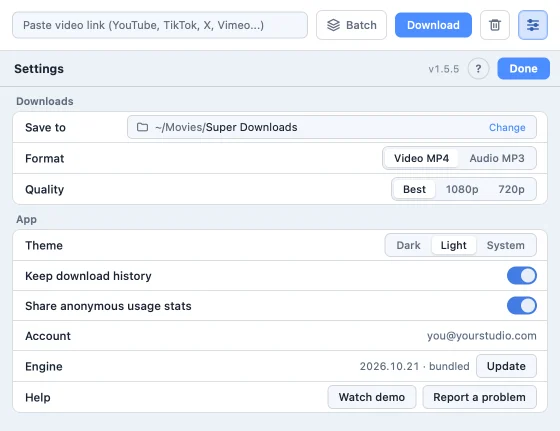
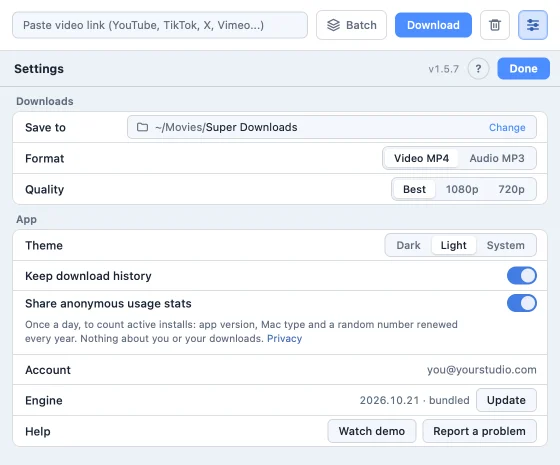
release: v1.5.7
Landing settings/onboarding screenshots regenerated (usage-switch description, «Free»).
Live E2E 10/10 OK.

diff --git a/web/src/data/releases.js b/web/src/data/releases.js
@@ -13,7 +13,7 @@ export const knownIssues = [
 export const releases = [
   {
     version: '1.5.7',
-    date: '2026-10-27',
+    date: '2026-10-26',
     notes: [
       'The app no longer shows a notice about usage stats when it opens. It still counts users anonymously, once a day: app version, Mac type and a random number, nothing about you or your downloads. Settings › Share anonymous usage stats turns it off; details on the Privacy page.',
       'The welcome screen says «Free», with no «limited time».',

diff --git a/CHANGELOG.md b/CHANGELOG.md
@@ -6,7 +6,9 @@ All notable changes to this project will be documented in this file.
 
 ## [Unreleased]
 
-Next app build (1.5.7), on branch `release/v1.5.7`, not published.
+## [1.5.7] — 2026-10-26
+
+No usage notice inside the app (the anonymous count is explained on the website and in Settings), «Free».
 
 - **No usage notice in the app:** the one-time «One anonymous ping a day…» box and the welcome-screen line are gone; nothing about the ping shows when the app opens. The daily anonymous ping stays on by default, now only once past the welcome screen. People are told before they install (a short line by the hero «Download for Mac» button, a line under the download buttons on superdownloads.app, /privacy#usage-stats); Settings › Share anonymous usage stats says what is sent and links to /privacy. Decision 2026-10-26 in `docs/DECISIONS.md`. Test: `node scripts/test-active-ping.cjs` (23 checks).
 - **«Free»:** the welcome and activation cards say «Free · unlimited downloads» (1.5.6 still said «Free for a limited time»).
